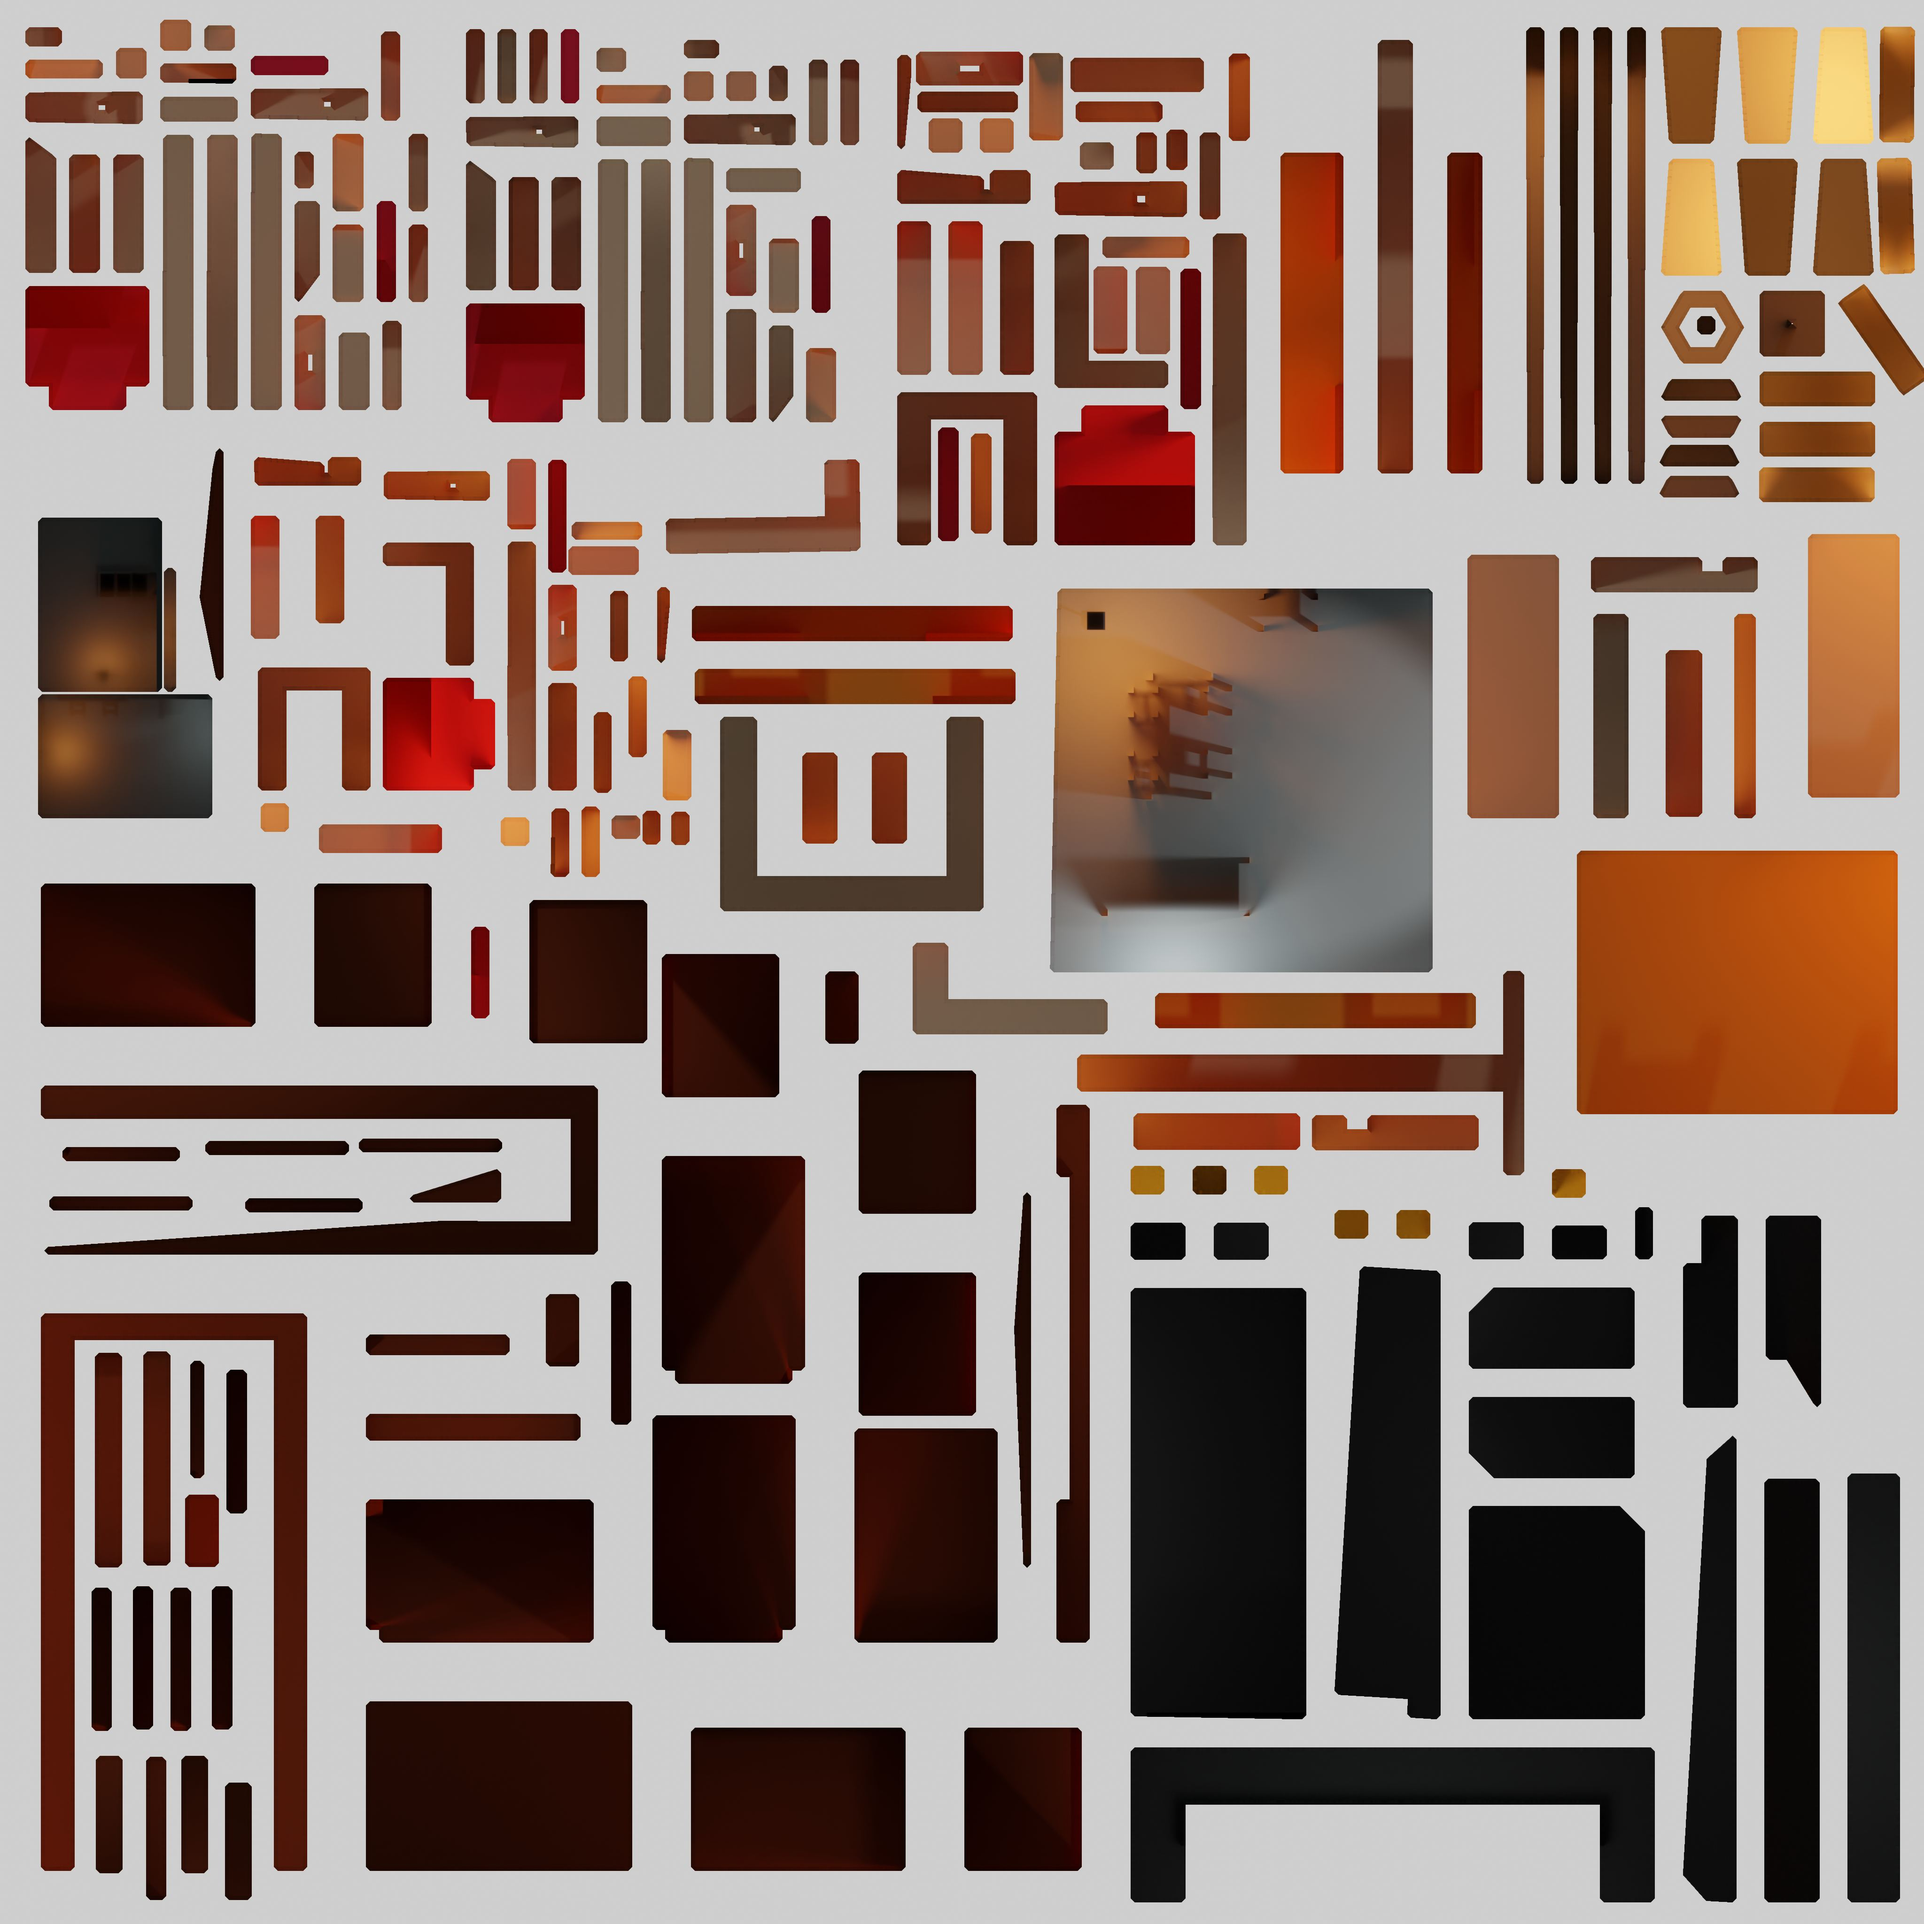
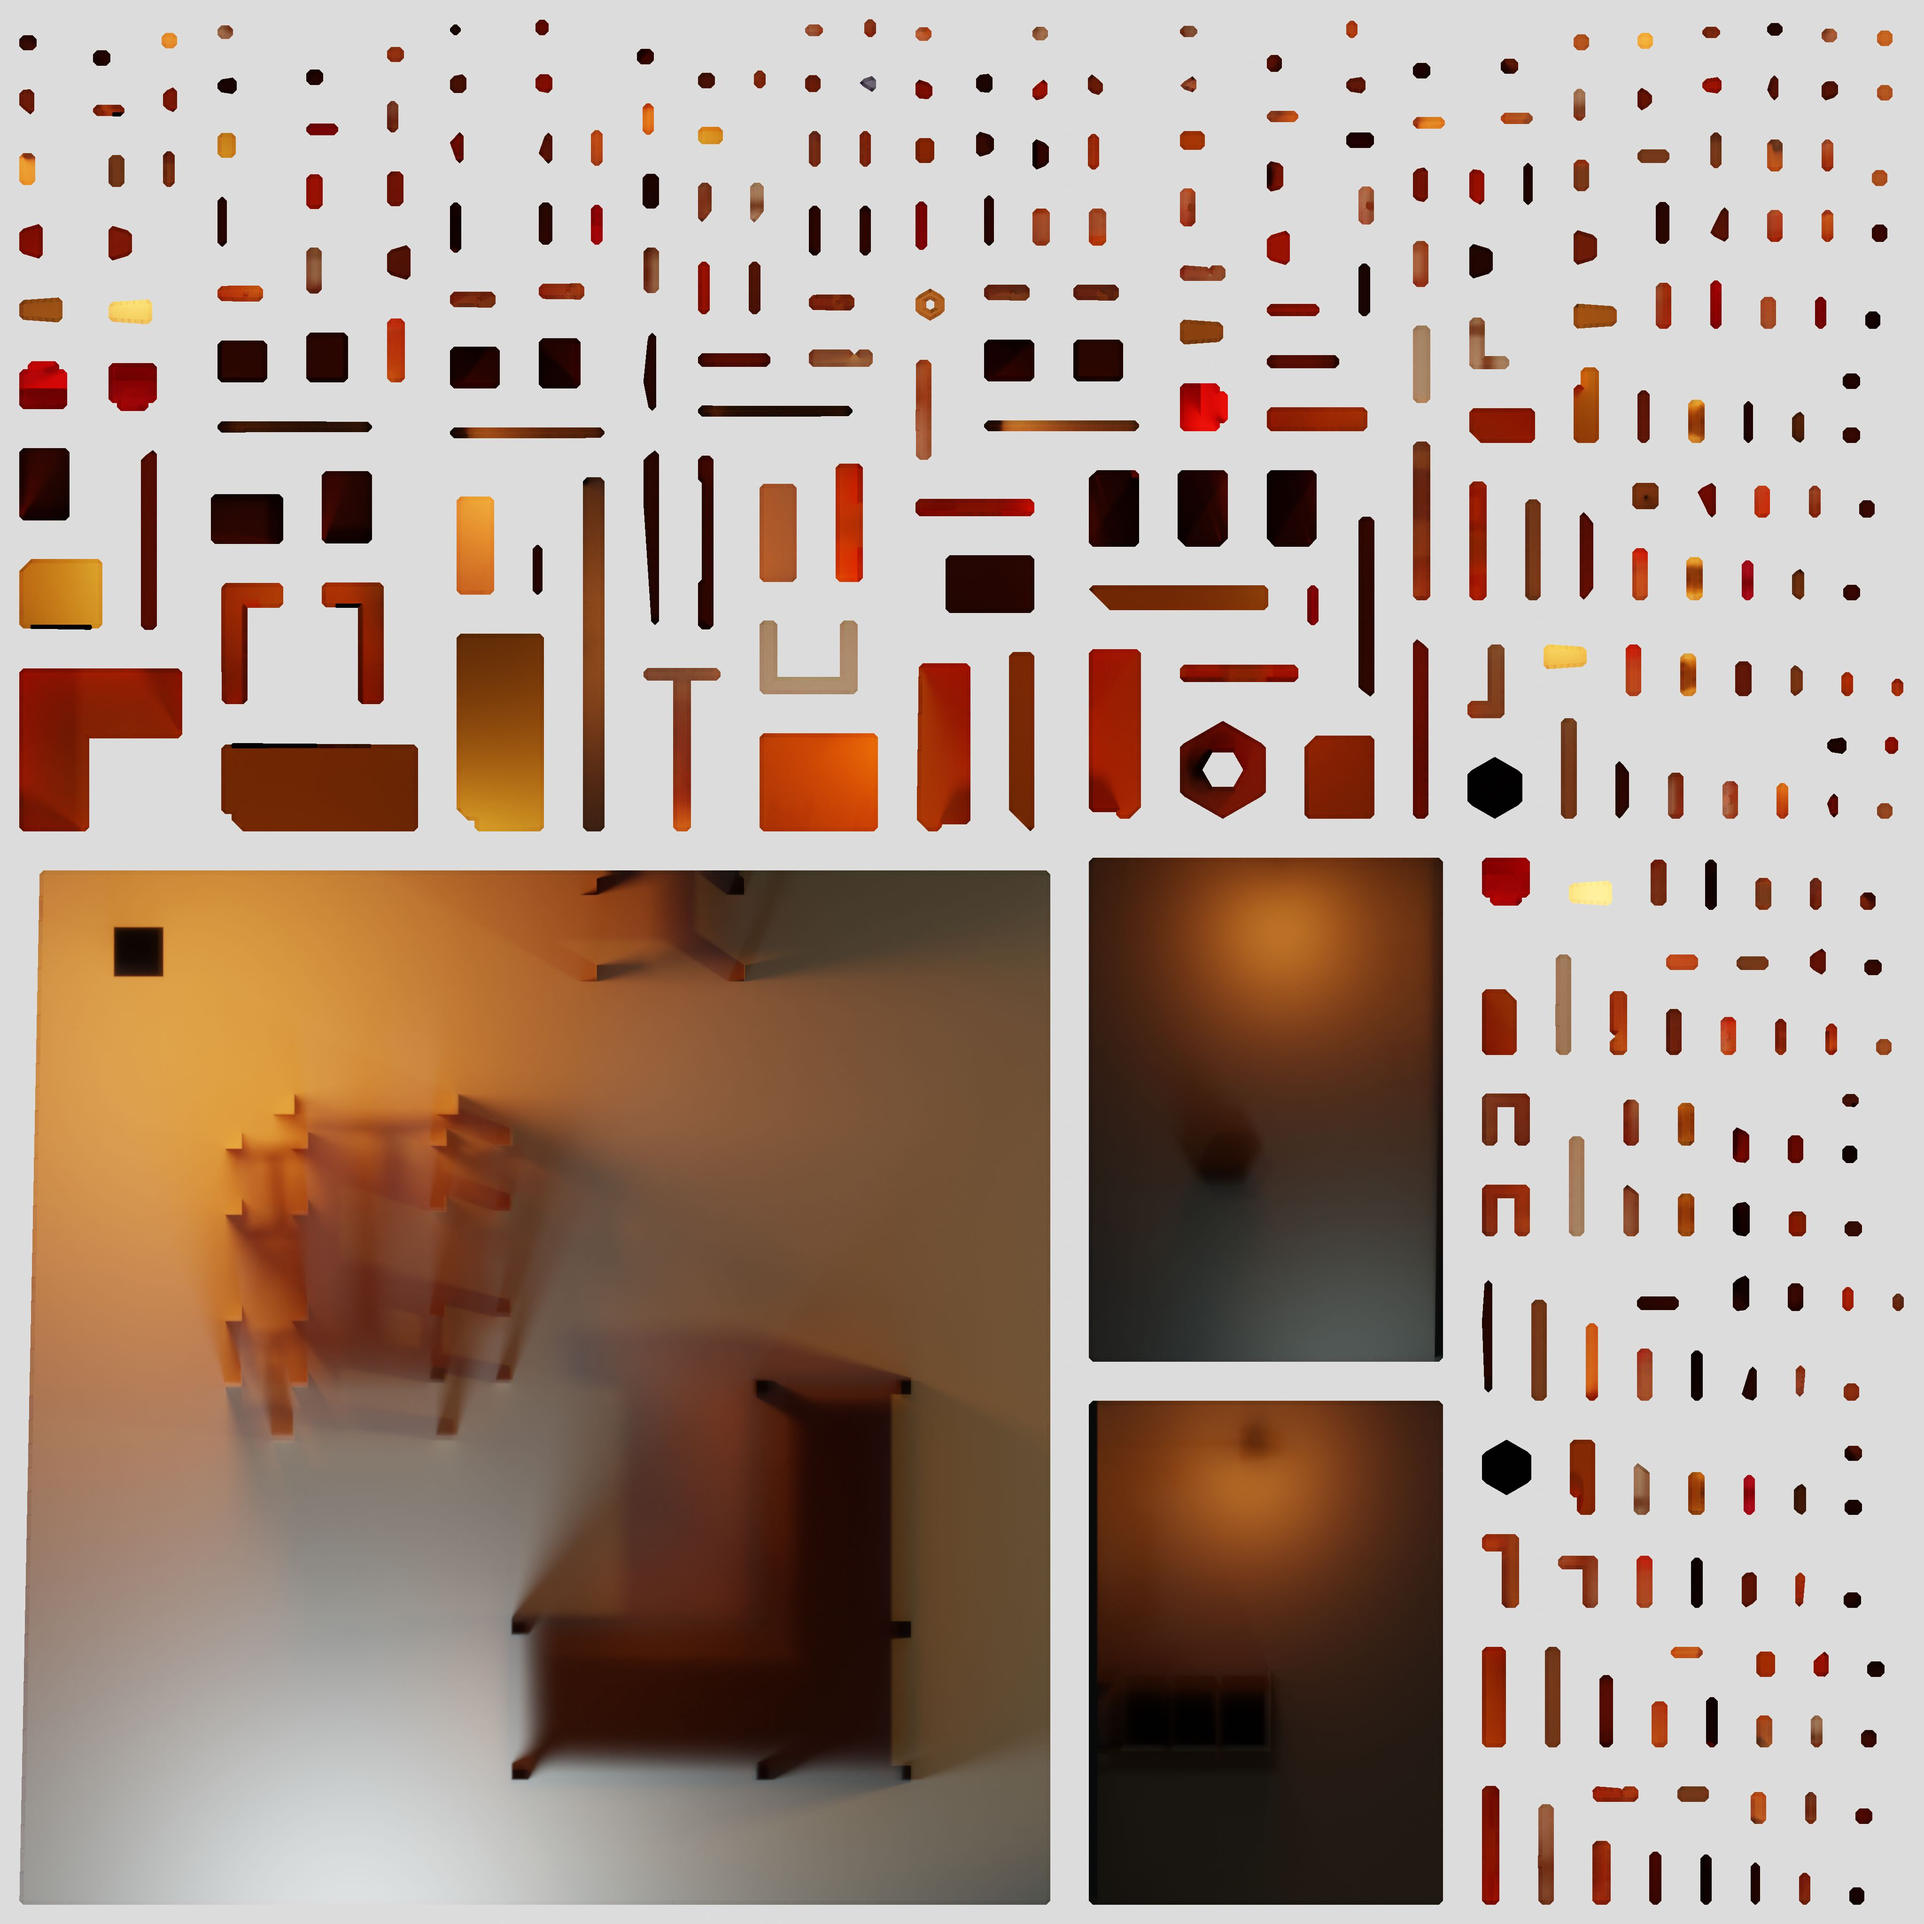
fast scene1

diff --git a/src/components/utils/LoadBlender.vue b/src/components/utils/LoadBlender.vue
@@ -13,6 +13,7 @@ import {
 import { GLTFLoader } from "three/examples/jsm/loaders/GLTFLoader.js";
 import { DRACOLoader } from "three/examples/jsm/loaders/DRACOLoader.js";
 import { mapGetters, mapActions } from "vuex";
+import { sRGBEncoding } from "three";
 import { vs, fs } from "/public/assets/shaders/screen";
 export default {
     props: {
@@ -51,6 +52,7 @@ export default {
         const bakedMaterial = new MeshBasicMaterial({
             map: bakedTexture,
         });
+        bakedTexture.encoding = sRGBEncoding
         const lightMaterial = new MeshBasicMaterial({
             color: 0xffffff,
         });

diff --git a/src/components/scenes/SceneVisuals.vue b/src/components/scenes/SceneVisuals.vue
@@ -18,6 +18,7 @@
 <script>
 import { mapGetters } from "vuex";
 import { gsap } from "gsap";
+import { sRGBEncoding } from "three";
 export default {
     props: {
         config: Object,
@@ -37,6 +38,7 @@ export default {
     mounted() {
         this.scene = this.$refs.scene;
         this.renderer = this.$refs.renderer;
+        this.renderer.renderer.outputEncoding = sRGBEncoding
 
         this.$store.commit("stages/setScene", this.scene);
         this.$store.commit("stages/setRenderer", this.renderer);

diff --git a/TODO.md b/TODO.md
@@ -28,13 +28,3 @@
 
 ## Bugs
 
-- Loading screen doesnt show when lookat isnt 0 0 0
-  To solve add this
-  `vec4 modelPosition = modelMatrix * vec4(position, 1.0);
-    vec4 viewPosition = viewMatrix * modelPosition;
-    vec4 projectionPosition = projectionMatrix * viewPosition;
-
-    gl_Position = projectionPosition;`
-  to the material shader where Loading Screen is
-
-- Bug in the aura for phone devices
